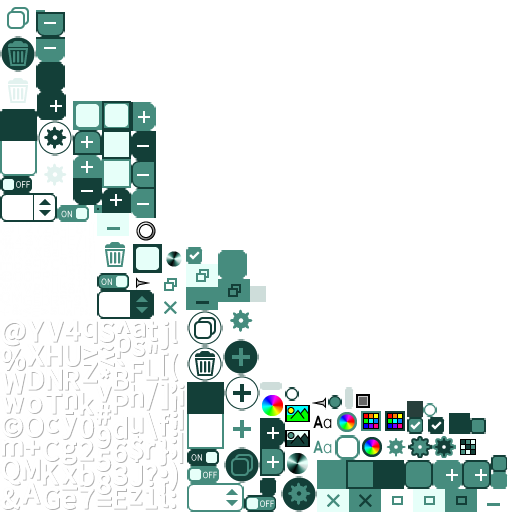
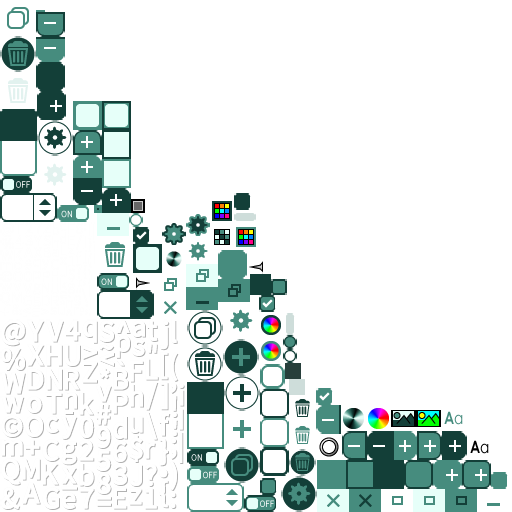
Updated dialog colors to use new skin.

Changed region(s): [[0.4688, 0.5, 1.0, 0.9688], [0.25, 0.1875, 0.5, 0.5312]]

diff --git a/core/src/com/ray3k/skincomposer/dialog/DialogColors.java b/core/src/com/ray3k/skincomposer/dialog/DialogColors.java
@@ -119,16 +119,7 @@ public class DialogColors extends Dialog {
         });
         table.add(selectBox);
         
-        ImageTextButtonStyle imageButtonStyle = new ImageTextButtonStyle();
-        imageButtonStyle.imageUp = skin.getDrawable("image-plus");
-        imageButtonStyle.imageDown = skin.getDrawable("image-plus-down");
-        imageButtonStyle.up = skin.getDrawable("button-orange");
-        imageButtonStyle.down = skin.getDrawable("button-orange-down");
-        imageButtonStyle.over = skin.getDrawable("button-orange-over");
-        imageButtonStyle.font = skin.getFont("font");
-        imageButtonStyle.fontColor = skin.getColor("white");
-        imageButtonStyle.downFontColor = skin.getColor("maroon");
-        ImageTextButton imageButton = new ImageTextButton(" New Color", imageButtonStyle);
+        TextButton imageButton = new TextButton("New Color", skin, "new");
         imageButton.addListener(new ChangeListener() {
             @Override
             public void changed(ChangeListener.ChangeEvent event, Actor actor) {
@@ -143,7 +134,7 @@ public class DialogColors extends Dialog {
         
         table = new Table();
         table.add(colorTable).pad(5.0f);
-        scrollPane = new ScrollPane(table, skin, "no-bg");
+        scrollPane = new ScrollPane(table, skin);
         scrollPane.setFadeScrollBars(false);
         getContentTable().add(scrollPane).grow();
         
@@ -183,7 +174,7 @@ public class DialogColors extends Dialog {
             public void selected(Color color) {
                 if (color != null) {
                     final TextField field = new TextField("RGBA_" + (int) (color.r * 255) + "_" + (int) (color.g * 255) + "_" + (int) (color.b * 255) + "_" + (int) (color.a * 255), skin);
-                    final Dialog dialog = new Dialog("Color name...", skin, "dialog") {
+                    final Dialog dialog = new Dialog("", skin, "dialog") {
                         @Override
                         protected void result(Object object) {
                             if ((Boolean) object == true) {
@@ -212,6 +203,9 @@ public class DialogColors extends Dialog {
                     field.addListener(IbeamListener.get());
 
                     dialog.getContentTable().padLeft(10.0f).padRight(10.0f);
+                    Label label = new Label("Color name...", skin, "title");
+                    dialog.text(label);
+                    dialog.getContentTable().row();
                     dialog.text("Please enter a name for the new color: ");
                     dialog.getContentTable().row();
                     dialog.getContentTable().add(field).growX();
@@ -252,7 +246,7 @@ public class DialogColors extends Dialog {
         if (colors.size > 0) {
             colorTable.defaults().padTop(5.0f);
             for (ColorData color : colors) {
-                Button button = new Button(skin);
+                Button button = new Button(skin, "color-base");
                 Label label = new Label(color.toString(), skin, "white");
                 label.setTouchable(Touchable.disabled);
                 
@@ -296,7 +290,7 @@ public class DialogColors extends Dialog {
                 button.add(borderTable).growX();
                 
                 //rename button
-                Button renameButton = new Button(skin, "name");
+                Button renameButton = new Button(skin, "settings-small");
                 renameButton.addListener(new ChangeListener() {
                     @Override
                     public void changed(ChangeListener.ChangeEvent event, Actor actor) {
@@ -316,7 +310,7 @@ public class DialogColors extends Dialog {
                 button.add(renameButton);
                 
                 //recolor button
-                Button recolorButton = new Button(skin, "color");
+                Button recolorButton = new Button(skin, "colorwheel");
                 recolorButton.addListener(new ChangeListener() {
                     @Override
                     public void changed(ChangeListener.ChangeEvent event, Actor actor) {
@@ -335,7 +329,7 @@ public class DialogColors extends Dialog {
                 });
                 button.add(recolorButton);
                 
-                label = new Label("(" + ((int)(color.color.r * 255)) + ", " + ((int)(color.color.g * 255)) + ", " + ((int)(color.color.b * 255)) + ", " + ((int)(color.color.a * 255)) + ")", skin, "white");
+                label = new Label("(" + ((int)(color.color.r * 255)) + ", " + ((int)(color.color.g * 255)) + ", " + ((int)(color.color.b * 255)) + ", " + ((int)(color.color.a * 255)) + ")", skin);
                 label.setTouchable(Touchable.disabled);
                 label.setAlignment(Align.center);
                 
@@ -359,7 +353,7 @@ public class DialogColors extends Dialog {
                 button.add(label).padLeft(5.0f).minWidth(160.0f);
                 
                 //delete color button
-                Button closeButton = new Button(skin, "close");
+                Button closeButton = new Button(skin, "delete-small");
                 final ColorData deleteColor = color;
                 closeButton.addListener(new ChangeListener() {
                     @Override
@@ -412,7 +406,7 @@ public class DialogColors extends Dialog {
                 colorTable.row();
             }
         } else {
-            colorTable.add(new Label("No colors have been set!", skin, "error"));
+            colorTable.add(new Label("No colors have been set!", skin, "required"));
         }
     }
     
@@ -445,7 +439,7 @@ public class DialogColors extends Dialog {
         TextField textField = new TextField("", skin);
         TextButton okButton;
         
-        Dialog dialog = new Dialog("Rename Color?", skin) {
+        Dialog dialog = new Dialog("", skin) {
             @Override
             protected void result(Object object) {
                 if ((boolean) object) {
@@ -469,12 +463,16 @@ public class DialogColors extends Dialog {
             borderColor = Color.WHITE;
         }
         
+        Label label = new Label("Rename Color?", skin, "title");
+        dialog.getContentTable().add(label);
+        
+        dialog.getContentTable().row();
         Table bg = new  Table(skin);
         bg.setBackground("white");
         bg.setColor(borderColor);
         dialog.getContentTable().add(bg);
         
-        Label label = new Label(color.getName(), skin, "white");
+        label = new Label(color.getName(), skin, "white");
         label.setColor(color.color);
         bg.add(label).pad(10);
         
@@ -491,6 +489,7 @@ public class DialogColors extends Dialog {
         dialog.button("Cancel", false).key(Keys.ESCAPE, false);
         okButton = (TextButton) dialog.getButtonTable().getCells().first().getActor();
         okButton.setDisabled(true);
+        getCell(getButtonTable()).padBottom(15.0f);
         
         textField.addListener(new ChangeListener() {
             @Override

diff --git a/core/src/com/ray3k/skincomposer/Main.java b/core/src/com/ray3k/skincomposer/Main.java
@@ -389,7 +389,7 @@ public class Main extends ApplicationAdapter {
     }
     
     public void showDialogColors(StyleProperty styleProperty, DialogColorsListener listener) {
-        DialogColors dialog = new DialogColors(skin, "dialog-panel", styleProperty, listener);
+        DialogColors dialog = new DialogColors(newSkin, "dialog", styleProperty, listener);
         dialog.setFillParent(true);
         dialog.show(stage);
         dialog.populate();
